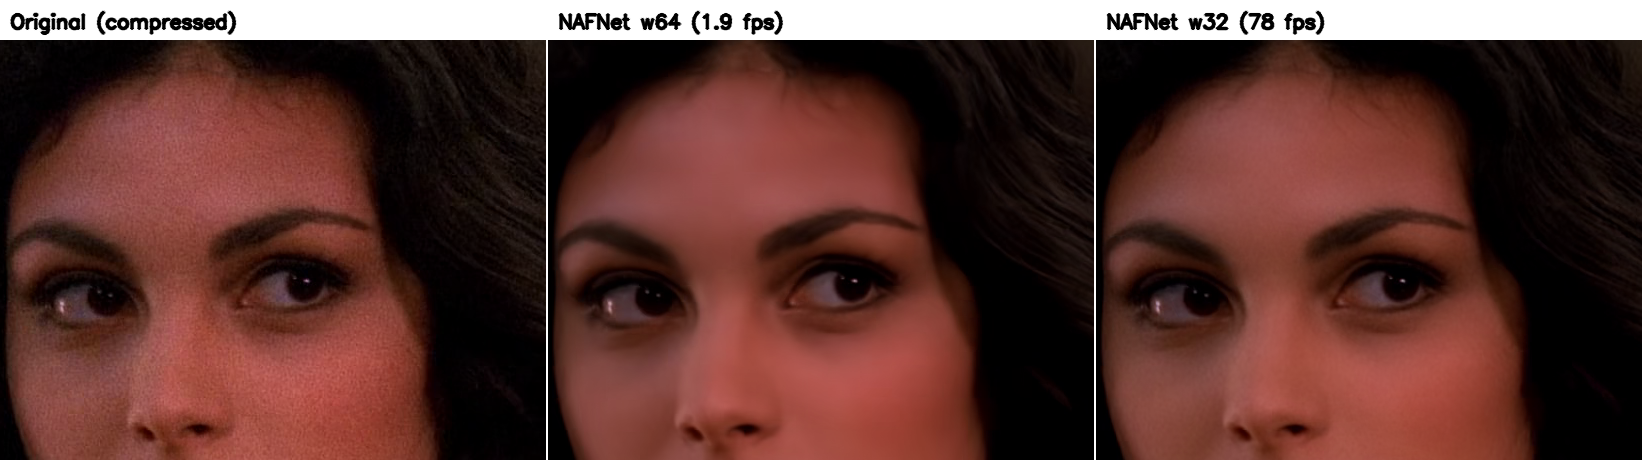
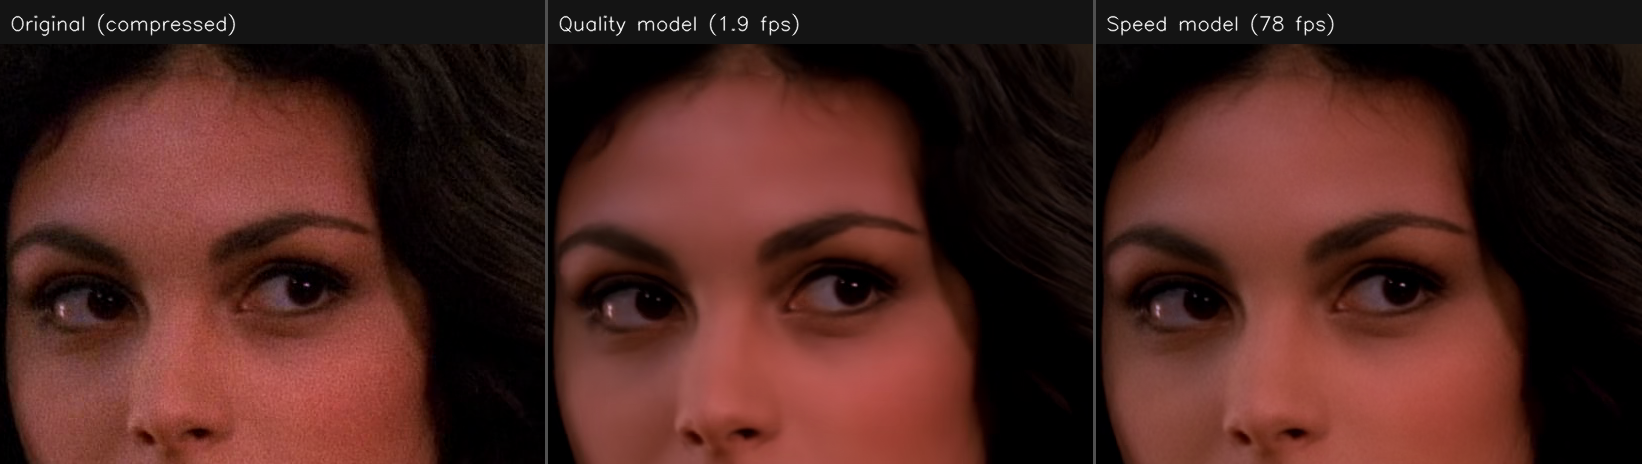
Better comparison images: dark bg, accurate labels, proper caption
Original (compressed) vs Quality model (1.9 fps) vs Speed model (78 fps)

Changed region(s): [[0.0, 0.0, 1.0, 0.0913]]

diff --git a/README.md b/README.md
@@ -6,10 +6,10 @@ This project uses ML to fix it — removing compression artifacts from video at 
 
 > **Status: Active development.** The student model now runs at **78 fps** (1080p, RTX 3060) — **78x faster** than the teacher — using only 2.3 GB VRAM. Currently building a zero-copy GPU pipeline and training with DISTS perceptual loss.
 
-![Comparison: Original vs NAFNet w64 vs NAFNet w32](assets/comparison_detail.png)
-*Firefly S01E02 — Compressed original vs restored. The w32 model runs at 78 fps and produces results visually close to the much larger w64.*
+![Detail comparison](assets/comparison_detail.png)
 
 ![Full frame comparison](assets/comparison_full.png)
+*Firefly S01E02 (2002, Fox). Left: the compressed source — look at the skin banding and smeared hair. Middle: our quality model cleans it up at 1.9 fps. Right: the speed model produces nearly identical results at **78 fps**. Morena Baccarin deserves better than MPEG artifacts.*
 
 ## The Problem
 
